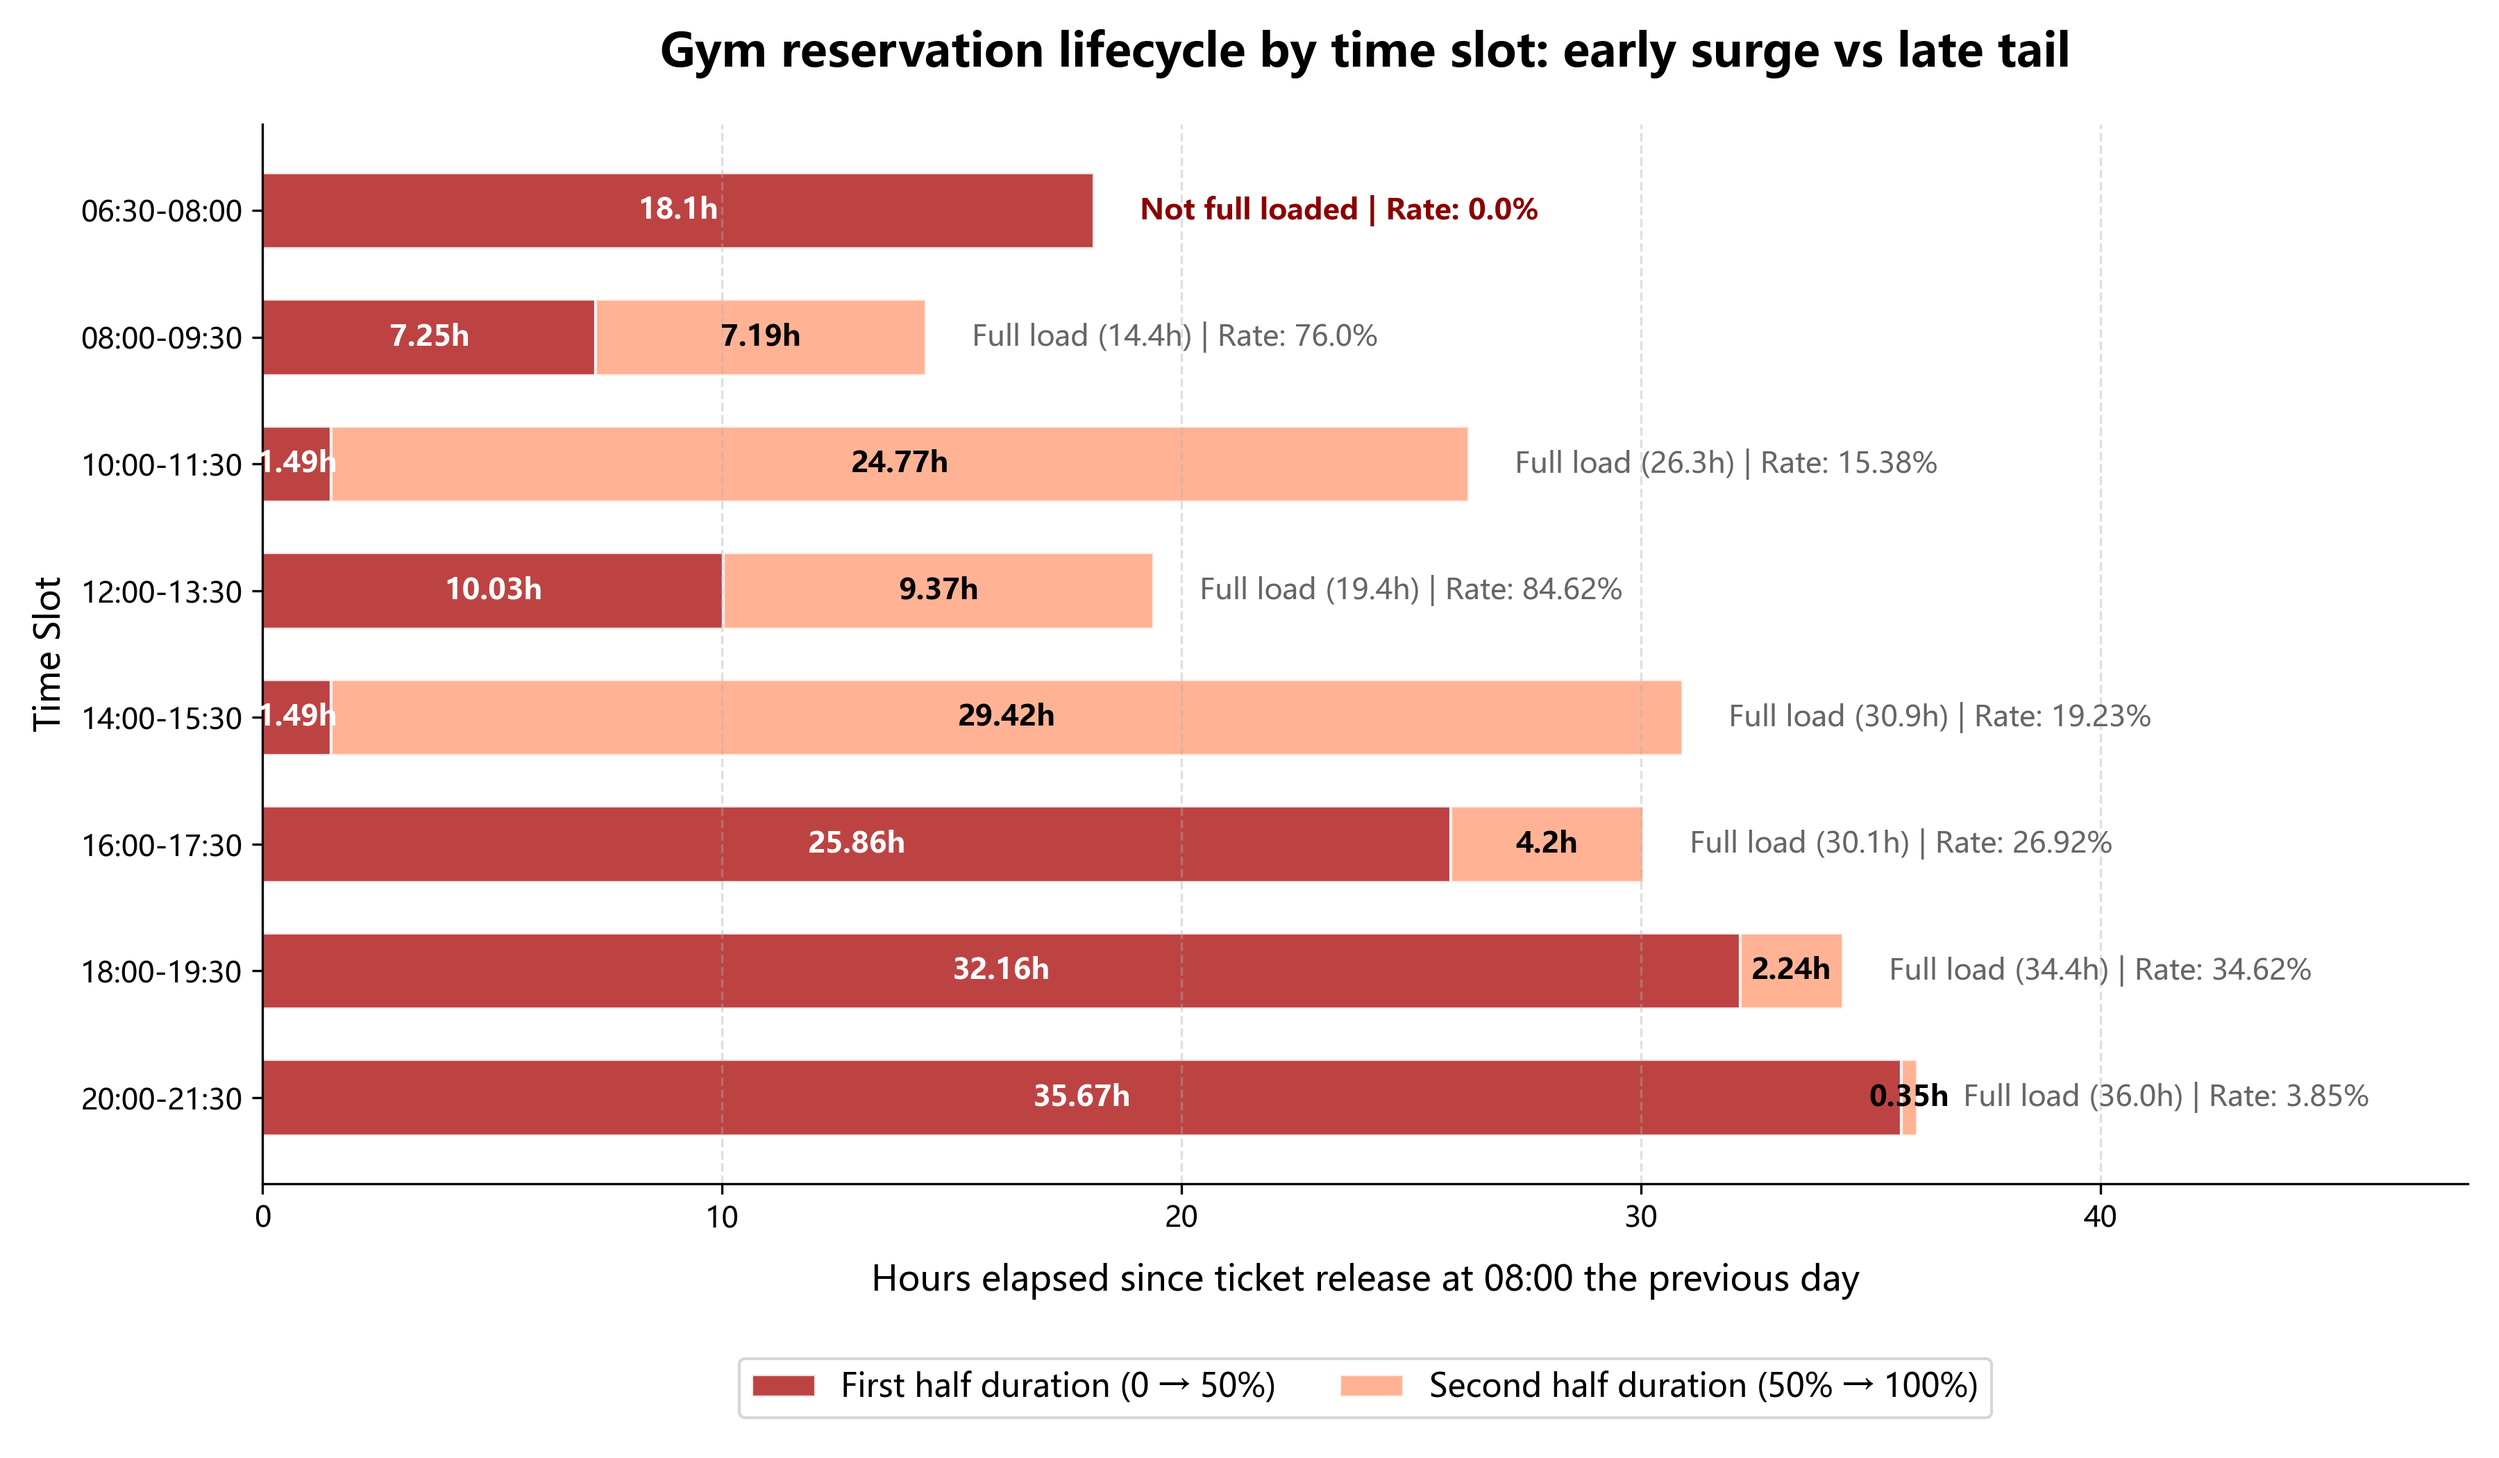
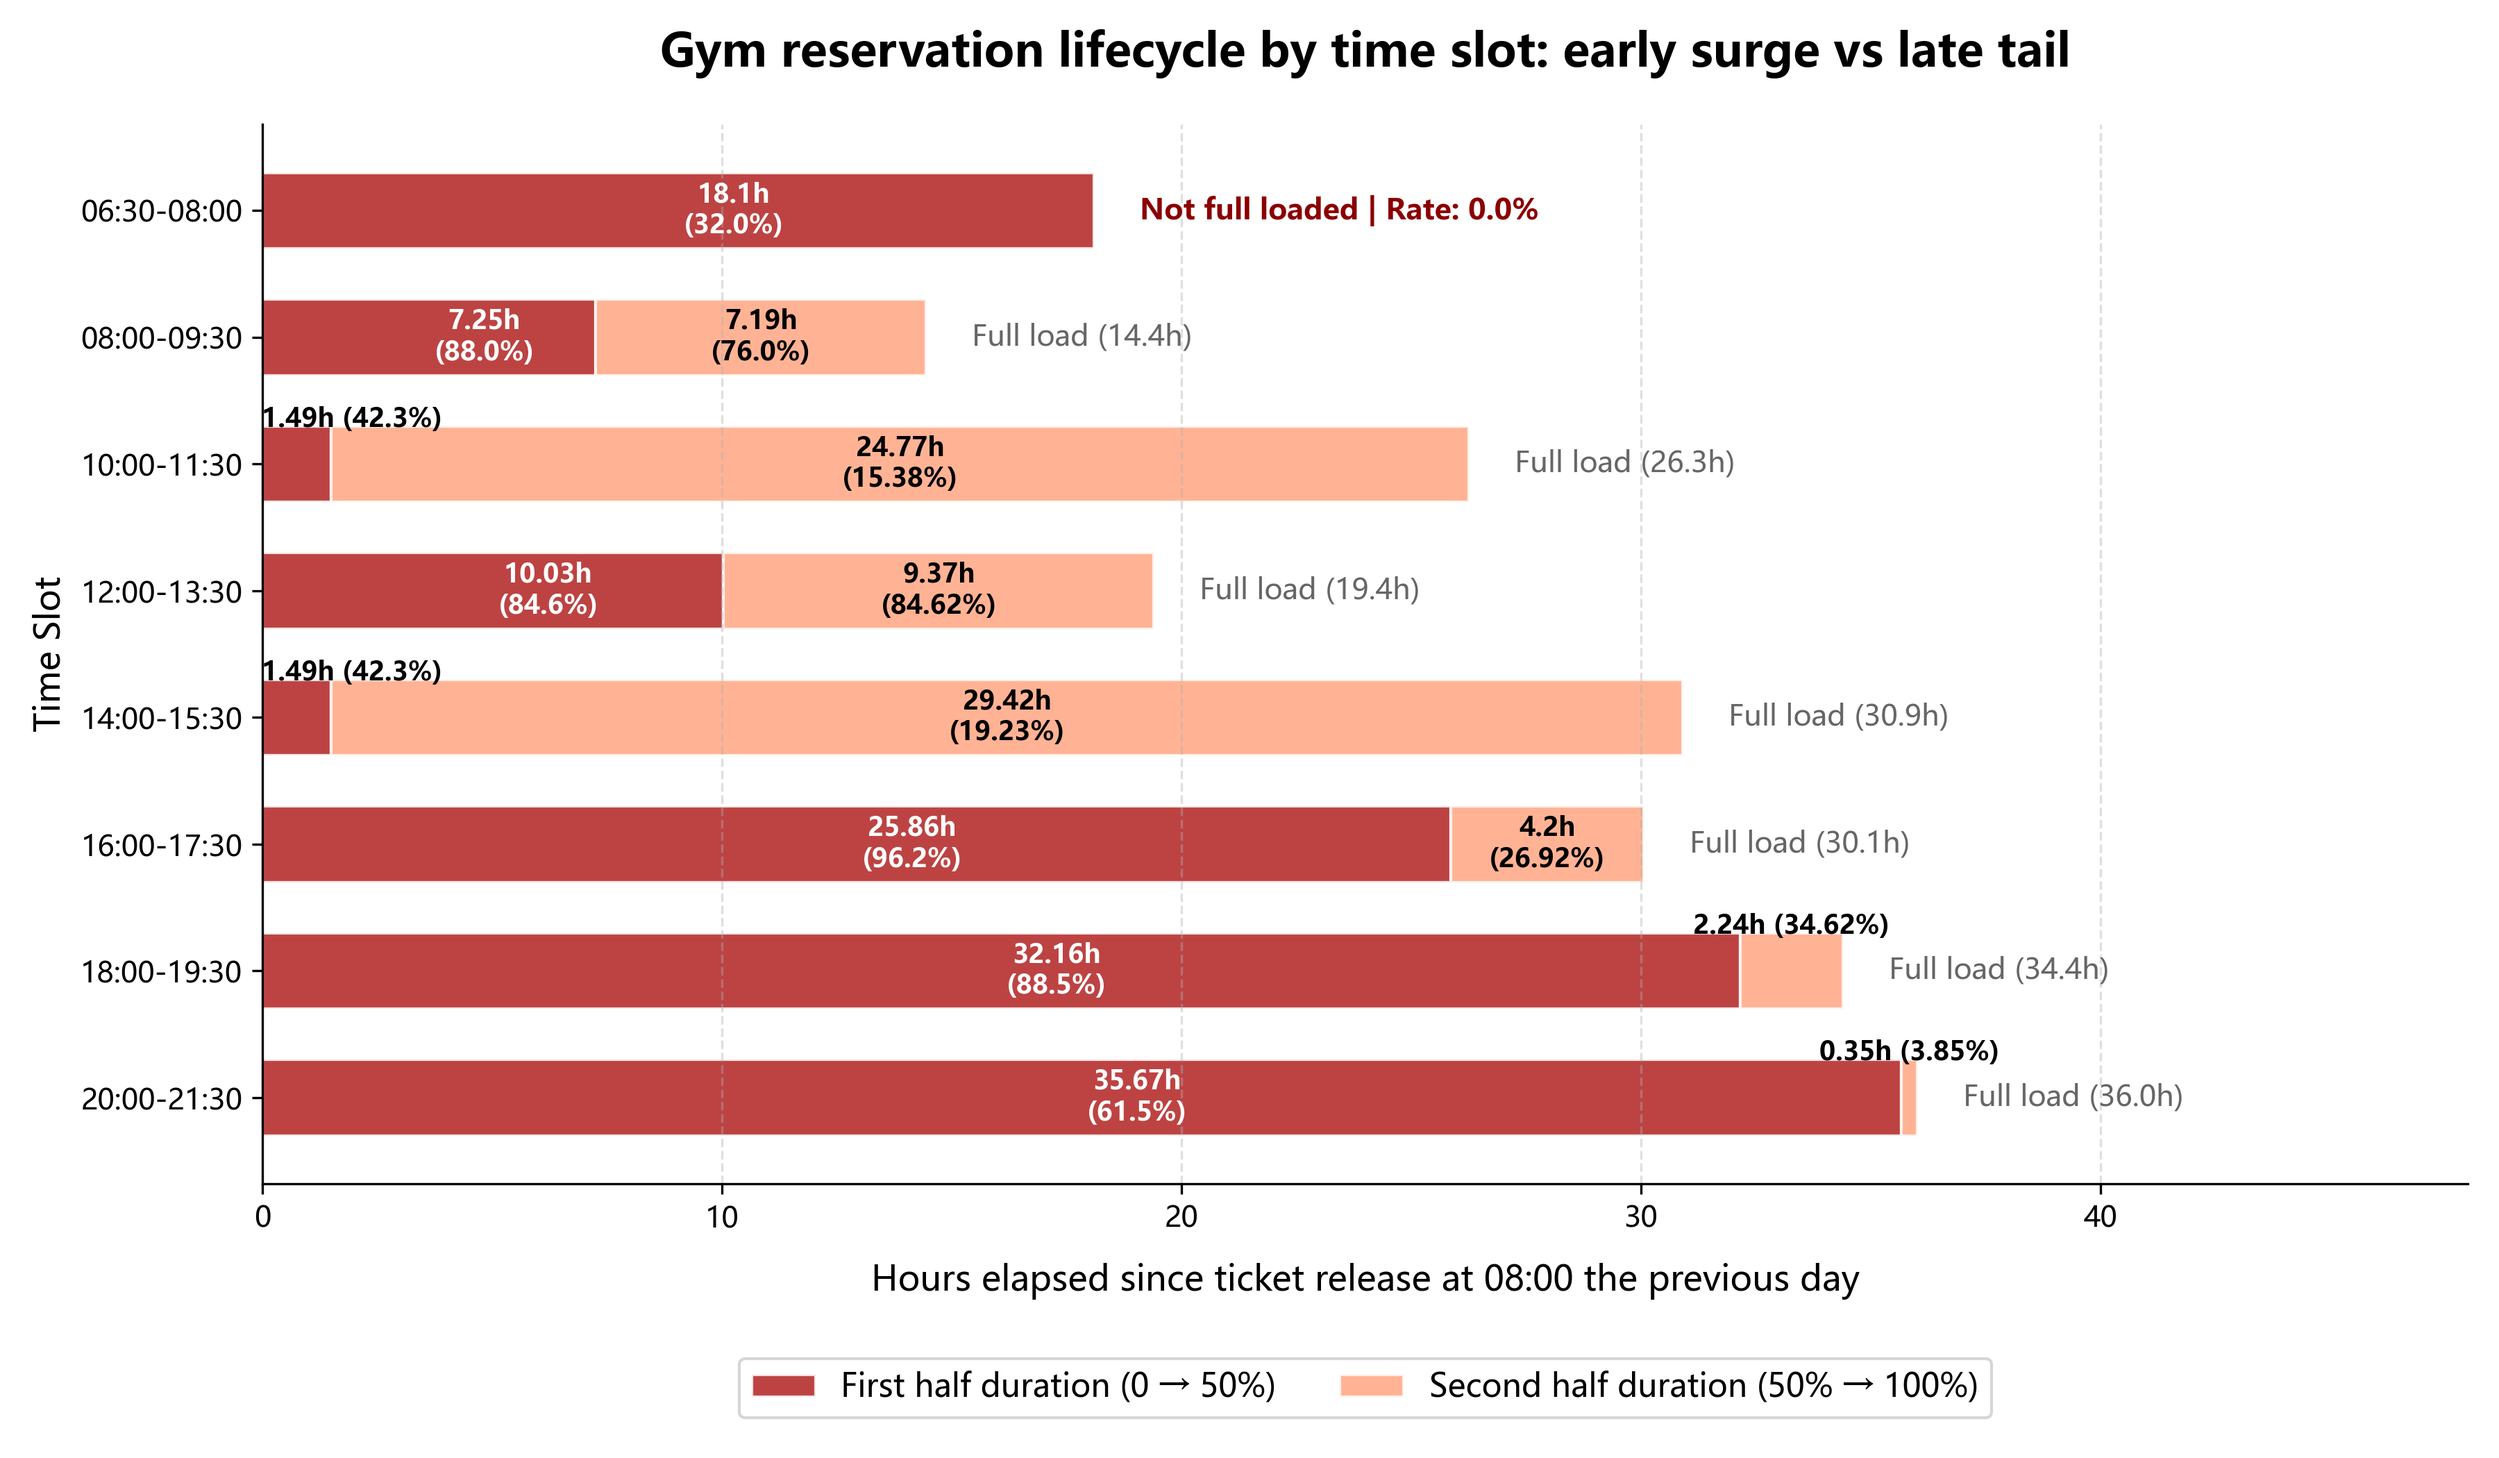
feat: 优化生命周期分析脚本，新增半负载天数和半负载率计算，调整图表文本显示

diff --git a/src/analyze/Half-Life.py b/src/analyze/Half-Life.py
@@ -13,7 +13,6 @@ try:
 except:
     pass
 
-
 def analyze_and_plot_lifecycle():
     current_file_dir = Path(__file__).resolve().parent
     project_root = current_file_dir.parent.parent
@@ -70,9 +69,6 @@ def analyze_and_plot_lifecycle():
         })
 
     df_results = pd.DataFrame(results)
-
-   
-   
    
     summary = (
         df_results
@@ -81,6 +77,7 @@ def analyze_and_plot_lifecycle():
             half_life_hours=("half_life_hours", "mean"),
             full_load_hours=("full_load_hours", "mean"),
             total_days=("date", "count"),
+            half_load_days=("half_life_hours", "count"), 
             full_load_days=("full_load_hours", "count"),
         )
         .reset_index()
@@ -89,24 +86,29 @@ def analyze_and_plot_lifecycle():
     summary["second_half_duration"] = (
         summary["full_load_hours"] - summary["half_life_hours"]
     )
+   
+    summary["half_load_rate"] = (
+        summary["half_load_days"] / summary["total_days"]
+    ) * 100
 
     summary["full_load_rate"] = (
         summary["full_load_days"] / summary["total_days"]
     ) * 100
 
-   
     summary = summary.sort_values(by="time_range", ascending=False).round(2)
 
     slots = summary["time_range"].tolist()
     half_life = summary["half_life_hours"].tolist()
     remainder = summary["second_half_duration"].tolist()
     rates = summary["full_load_rate"].tolist()
+    half_rates = summary["half_load_rate"].round(1).tolist() 
 
     print("\n[INFO] Calculation complete. Previewing summary:")
    
     print_cols = [
         "time_range",
         "half_life_hours",
+        "half_load_rate", 
         "full_load_hours",
         "second_half_duration",
         "full_load_rate",
@@ -136,39 +138,51 @@ def analyze_and_plot_lifecycle():
         height=0.6,
         edgecolor="white",
     )
+   
+    for i, (h, r, rate, h_rate) in enumerate(
+        zip(half_life, remainder, rates, half_rates)
+    ):
+       
+        if not np.isnan(h):
+           
+            y_pos_h = i + 0.35 if h < 3 else i
+            font_color_h = "black" if h < 3 else "white"
+            text_str_h = (
+                f"{h}h ({h_rate}%)" if h < 3 else f"{h}h\n({h_rate}%)"
+            ) 
 
-   
-   
-   
-    for i, (h, r, rate) in enumerate(zip(half_life, remainder, rates)):
-        ax.text(
-            h / 2,
-            i,
-            f"{h}h",
-            va="center",
-            ha="center",
-            color="white",
-            fontweight="bold",
-            fontsize=10,
-        )
-
+            ax.text(
+                h / 2 + 1.2,
+                y_pos_h,
+                text_str_h,
+                va="center",
+                ha="center",
+                color=font_color_h,
+                fontweight="bold",
+                fontsize=9, 
+            )
+       
         if not np.isnan(r):
+           
+            y_pos_r = i + 0.35 if r < 3 else i
+            text_str_r = f"{r}h ({rate}%)" if r < 3 else f"{r}h\n({rate}%)"
+
             ax.text(
                 h + r / 2,
-                i,
-                f"{r}h",
+                y_pos_r,
+                text_str_r,
                 va="center",
                 ha="center",
                 color="black",
                 fontweight="bold",
-                fontsize=10,
+                fontsize=9,
             )
 
            
             ax.text(
-                h + r + 1,
+                h + r + 1, 
                 i,
-                f"Full load ({round(h + r, 1)}h) | Rate: {rate}%",
+                f"Full load ({round(h + r, 1)}h)",
                 va="center",
                 ha="left",
                 color="#666666",
@@ -176,8 +190,10 @@ def analyze_and_plot_lifecycle():
                 style="italic",
             )
         else:
+           
+            offset_x = h + 1 if not np.isnan(h) else 1
             ax.text(
-                h + 1,
+                offset_x,
                 i,
                 f"Not full loaded | Rate: {rate}%",
                 va="center",
@@ -201,7 +217,6 @@ def analyze_and_plot_lifecycle():
     )
     ax.set_ylabel("Time Slot", fontsize=12)
 
-   
     ax.set_xlim(0, 48)
 
     ax.xaxis.grid(True, linestyle="--", alpha=0.4)
@@ -227,7 +242,6 @@ def analyze_and_plot_lifecycle():
     print(
         f"[INFO] Lifecycle charts generated.\nSVG path: {svg_path}\nPNG path: {png_path}"
     )
-
 
 if __name__ == "__main__":
     analyze_and_plot_lifecycle()
